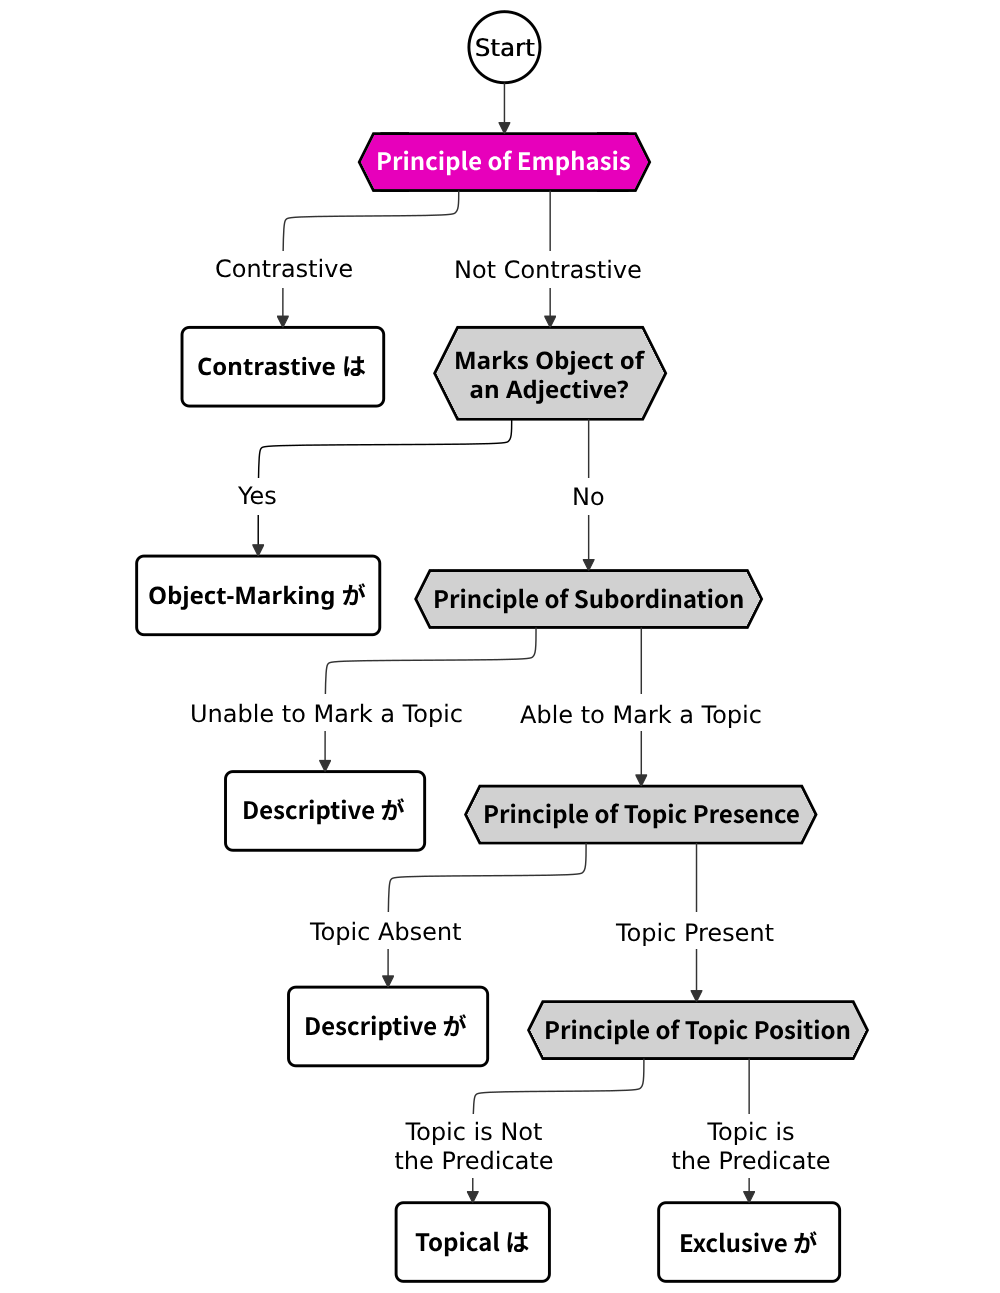
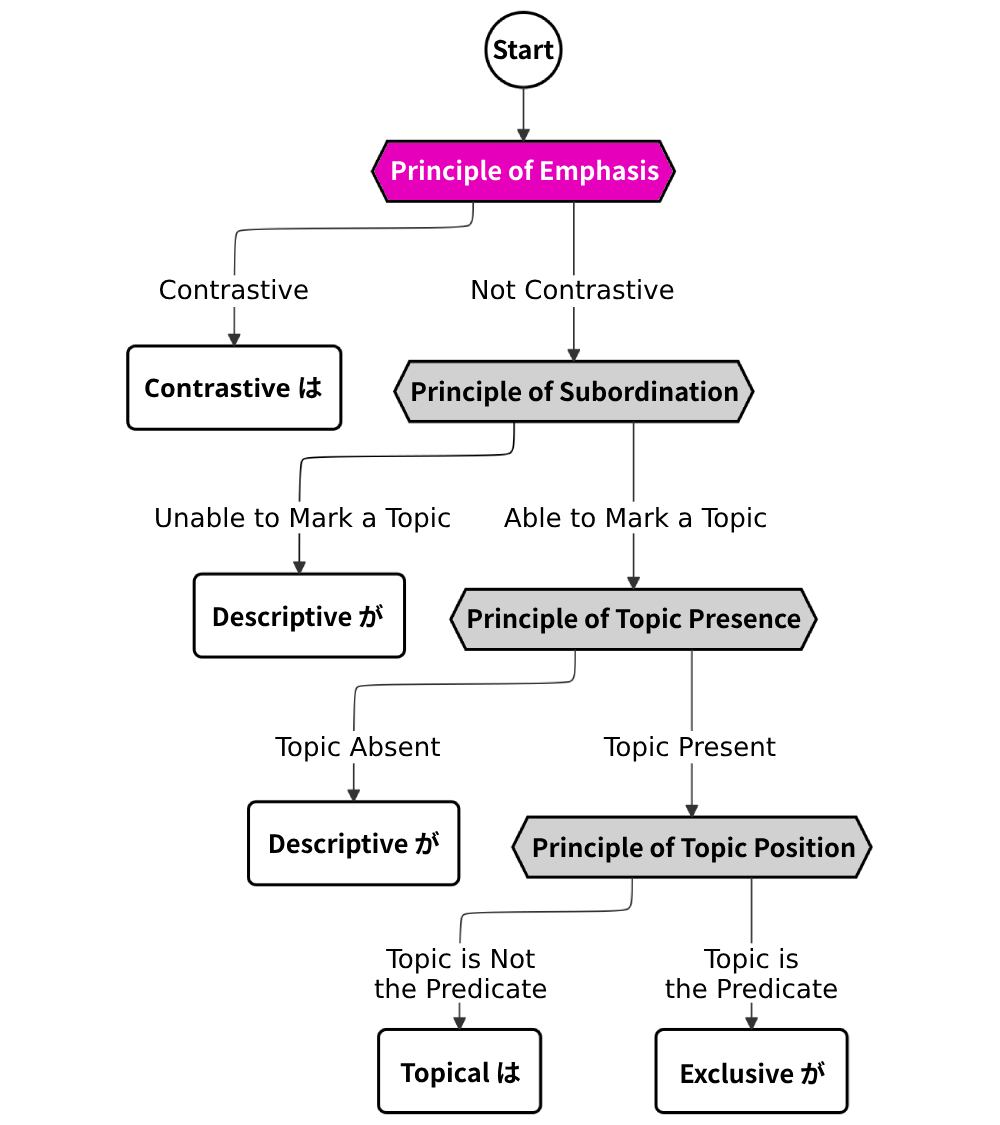
change flowchart to delete object-marking ga

Changed region(s): [[0.124, 0.0, 0.868, 0.9956], [0.217, 0.1867, 0.372, 0.2178]]

diff --git a/_posts/2025-01-23-youtube-addiction.md b/_posts/2025-01-23-youtube-addiction.md
@@ -1,0 +1,26 @@
+---
+layout: post
+title: "Youtube Addiction and My Fading Inner Monologue"
+author: "konomu"
+categories: journal
+tags: [personal]
+image: 
+published: false
+---
+
+I was born in 2001, and that makes me 23 years old right now. I don't remember the exact video or even the exact year I watched it in when I started watching youtube. My best guess in placing my earliest memories using youtube on a timeline is in the third grade (around 2009) but I'm sure I probably first encountered the site earlier. [Some of you reading this remember how it was on the site back in 2012, when my memories start getting clearer. Back then, Youtube had more features that encouraged interaction between users]
+
+I know my case isn't unique. Many other people from my generation have grown up with youtube as their main source of entertainment. What sets me apart from all of them is the sheer amount of time that place stole from me. 
+
+What did 16 years of habitually watching youtube do to me? Unfortunately, I have no idea. [But what I can say is that it hasn't just influenced my beliefs, but ] Some people can look back on experiences like drug addiction or unhealthy eating habits and say definitively that they regret it. But for me to say that I regret all of the time I spent on youtube would be like tossing half of my personality in the trash. "Half" may even be an understatement. My taste in what I find pleasant about a person, in art and design; social skills, political beliefs, how I present myself, the media I love, the grades I got in school, and how I learn all change if I reject youtube.
+
+The way someone engages with videos probably has some effect on the quality of time they have on the platform. In my case, I rarely ever watch videos in the background. It's always the only thing in front of me, or I'm not on the site at all. This is actually a part of the problem I have with youtube. Long videos have been around for a while, but it's becoming more common for creators to post deep-dive "essays" that run over the hour-long mark. As I watch one of these videos, I *feel* like I'm learning everything, but I click away left with nothing. Whatever knowledge I gain from the video is ultimately useless and uninteresting to me, and I'm inundated with so much of it from every video that it disappears from my mind in a few hours. I've seen people who think the main problem with the way they engage with youtube is that they aren't focused on it enough. Maybe there's some truth to this. There are creators on youtube that make well-researched, high-quality video essays on important topics, and you might even have some specific ones in mind right now. But think: do you remember even a single point from one of these videos right now? Could you put its general idea into words? For me, the answer is no.
+
+I used to think of watching videos as no different from reading books. Of course, the attention you have to pay towards reading text requires more brain power than just letting the sounds and pictures wash past you when you "watch" a video. But the way I saw it, this phenomenon of consuming media without thinking about it can also happen as you read. Sometimes I find myself having finished passing my eyes over a paragraph and realize I have no idea what I just read.
+
+The difference between print and video lies in subtleties. If I don't know what I've just read, I can just read the last few sentences again. There is no physical actions associated with this. What is the equivalent of this for a youtube video? I have to get up from whatever position I'm comfortable in, reach towards my mouse and scrub back to the point I last remember, which I might have some trouble finding. If I'm watching on my tablet or phone, I can double tap the screen to go back 10 seconds, but this rarely puts me at the time I'm looking for. Most of the time, I don't care enough to rewatch a portion of the video. 
+
+Does this mean youtube would be healthier if there were some magical browser extension that made navigating videos as easy as navigating your eyes on a page? Do I need one of those eye tracking mice so I don't need to move? Am I just too lazy to watch youtube videos? Maybe. But over the years, I've realized that video is simply inferior to print in keeping my full attention and conveying information. It's also a huge waste of time. The mechanism with which youtube keeps me "engaged" on their site is through the endless offering of recommendations and the simple fact that I've been on there for 16 years, not the content of the videos anymore. 
+
+
+

diff --git a/_posts/2024-08-24-wa-ga-flowchart.md b/_posts/2024-08-24-wa-ga-flowchart.md
@@ -48,7 +48,7 @@ The names of all of these new principles might sound daunting, but you can actua
 
 We'll take a look at the rules that govern these principles in Chapters 3 through 6.
 
-The "Object-Marking が" function in the flowchart above is explained in [Chapter 7](wa-ga-other#object-ga).
+There are two usages of が not covered in the flowchart: "Object-Marking が" explained in [Chapter 7](wa-ga-other#object-ga) and が in identificational sentences explained in the [addendum](wa-ga-addendum).
 
 ## <a name="simplified" style="text-decoration: none; pointer-events: none;"> EXTRA: Alternate Flowchart
 
